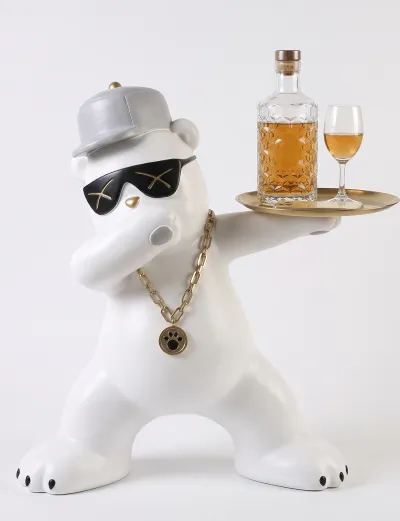
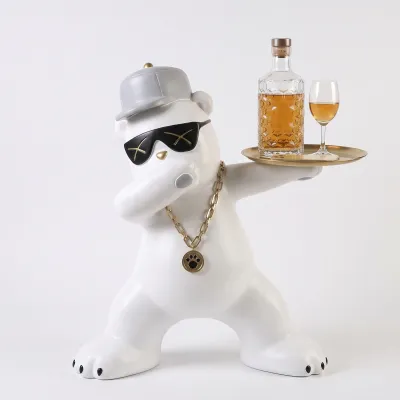
Switch product images to a 1:1 aspect ratio
Hero, material cards, discover section, collection grid and loading screens are now square. Dab Bear re-exported as the full square instead of the portrait crop.

diff --git a/index.html b/index.html
@@ -51,7 +51,7 @@ a:hover{color:#555;}
   .r-gap-sm{gap:56px !important;}
   /* hero: vertical stacked column on mobile */
   .r-hero-grid{grid-template-columns:1fr !important;}
-  .r-hero-img-wrap{height:55vh !important;}
+  .r-hero-img-wrap{height:auto !important;}
   .r-hero-copyright{position:static !important;text-align:left !important;order:-1;}
   .r-hero-content{position:static !important;}
   .r-hero-side{margin-top:24px !important;}
@@ -103,7 +103,7 @@ a:hover{color:#555;}
 
   <!-- LOADING SCREEN -->
   <div ref="{{ loadingRef }}" style="position:fixed;inset:0;z-index:100;background:#fff;color:#000;padding:16px;transform:translateY(0%);transition:transform 1s cubic-bezier(.77,0,.18,1);">
-    <img class="r-loading-img" src="{{ loadingImg }}" alt="" style="position:absolute;top:16px;left:16px;width:160px;aspect-ratio:2/2.6;object-fit:cover;">
+    <img class="r-loading-img" src="{{ loadingImg }}" alt="" style="position:absolute;top:16px;left:16px;width:160px;aspect-ratio:1/1;object-fit:cover;">
     <img src="./assets/loading-icon.svg" alt="Organised Octopus" style="position:absolute;top:50%;left:50%;transform:translate(-50%,-50%);width:180px;display:block;">
     <p class="r-loading-text" style="position:absolute;bottom:16px;right:16px;font-size:20px;font-weight:500;line-height:110%;letter-spacing:-0.02em;margin:0;max-width:380px;text-align:right;">Your home called. It wants art. We design material-driven, minimalist furniture inspired by Swiss graphic design.</p>
   </div>
@@ -126,7 +126,7 @@ a:hover{color:#555;}
     <div style="padding: 0 16px; position: relative">
       <div class="r-hero-grid" style="display: grid; grid-template-columns: 1fr 1fr; gap: 16px; position: relative; justify-content: center">
 
-        <div style="overflow:hidden;aspect-ratio: 2/2.6; height: 650px; width: 100%; border-radius: 0px;" class="r-hero-img-wrap"><img ref="{{ heroImgRef }}" class="r-hero-img" src="./assets/products/david-bust.webp" alt="{{ heroTitle }}" style="object-fit: cover; height: 100%; margin-right: 0px; width: 100%; transform:translateY(100%); transition:transform .9s cubic-bezier(.16,1,.3,1);"></div>
+        <div style="overflow:hidden;aspect-ratio: 1/1; height: auto; width: 100%; border-radius: 0px;" class="r-hero-img-wrap"><img ref="{{ heroImgRef }}" class="r-hero-img" src="./assets/products/david-bust.webp" alt="{{ heroTitle }}" style="object-fit: cover; height: 100%; margin-right: 0px; width: 100%; transform:translateY(100%); transition:transform .9s cubic-bezier(.16,1,.3,1);"></div>
         <div class="r-hero-side" style="position: relative; align-self: stretch">
           <p class="r-hero-copyright" style="position: absolute; top: 0; right: 0; font-size: 16px; font-weight: 500; margin: 0; left: 0px; text-align: right; display: none">© 2025 Organised Octopus</p>
           <div class="r-hero-content" style="position: absolute; left: 0; right: 0; bottom: 0; display: flex; flex-direction: column; align-items: flex-start; gap: 16px;">
@@ -170,19 +170,19 @@ a:hover{color:#555;}
       <div ref="{{ stageRef }}" class="r-s3-stage" style="position:relative;width:100%;height:100%;">
         <!-- left -->
         <div ref="{{ leftRef }}" style="position:absolute;top:50%;left:35%;transform:translate(0,-50%);width:30%;z-index:1;background:#fff;">
-          <img src="./assets/products/teddy-statue.webp" alt="Teddy Statue" style="aspect-ratio:2/2.6;object-fit:cover;width:100%;">
+          <img src="./assets/products/teddy-statue.webp" alt="Teddy Statue" style="aspect-ratio:1/1;object-fit:cover;width:100%;">
           <div style="display: flex; justify-content: space-between; align-items: center; padding: 12px 0"><p style="font-size:16px;font-weight:500;margin:0;">Arco Shelf Metal</p></div>
           <a ref="{{ btn0 }}" href="#" class="r-s3-btn" style="background:#000;color:#fff;width:100%;height:40px;padding:0 16px;display:flex;justify-content:space-between;align-items:center;text-decoration:none;opacity:0;transform:translateY(10px);pointer-events:none;transition:opacity .45s ease,transform .45s ease;"><span style="font-size:16px;font-weight:500;">Shop on Amazon</span><span style="font-size:16px;font-weight:500;"></span></a>
         </div>
         <!-- right -->
         <div ref="{{ rightRef }}" style="position:absolute;top:50%;left:35%;transform:translate(0,-50%);width:30%;z-index:1;background:#fff;">
-          <img src="./assets/products/head-side-table.webp" alt="Head Side Table" style="aspect-ratio:2/2.6;object-fit:cover;width:100%;">
+          <img src="./assets/products/head-side-table.webp" alt="Head Side Table" style="aspect-ratio:1/1;object-fit:cover;width:100%;">
           <div style="display:flex;justify-content:space-between;align-items:center;padding:12px 0;"><p style="font-size:16px;font-weight:500;margin:0;">Arco Stool Metal</p></div>
           <a ref="{{ btn1 }}" href="#" class="r-s3-btn" style="background:#000;color:#fff;width:100%;height:40px;padding:0 16px;display:flex;justify-content:space-between;align-items:center;text-decoration:none;opacity:0;transform:translateY(10px);pointer-events:none;transition:opacity .45s ease,transform .45s ease;"><span style="font-size:16px;font-weight:500;">Shop on Amazon</span><span style="font-size:16px;font-weight:500;"></span></a>
         </div>
         <!-- center -->
         <div ref="{{ centerRef }}" style="position:absolute;top:50%;left:35%;transform:translate(0,-50%);width:30%;z-index:2;background:#fff;">
-          <img src="./assets/products/dab-bear-side-table.webp" alt="Dab Bear Side Table" style="aspect-ratio:2/2.6;object-fit:cover;width:100%;">
+          <img src="./assets/products/dab-bear-side-table.webp" alt="Dab Bear Side Table" style="aspect-ratio:1/1;object-fit:cover;width:100%;">
           <div style="display:flex;justify-content:space-between;align-items:center;padding:12px 0;"><p style="font-size:16px;font-weight:500;margin:0;">Arco Sofa Metal</p></div>
           <a ref="{{ btn2 }}" href="#" class="r-s3-btn" style="background:#000;color:#fff;width:100%;height:40px;padding:0 16px;display:flex;justify-content:space-between;align-items:center;text-decoration:none;opacity:0;transform:translateY(10px);pointer-events:none;transition:opacity .45s ease,transform .45s ease;"><span style="font-size:16px;font-weight:500;">Shop on Amazon</span><span style="font-size:16px;font-weight:500;"></span></a>
         </div>
@@ -205,9 +205,9 @@ a:hover{color:#555;}
         </a>
       </div>
       <div class="r-2col" style="grid-column:5 / 13;display:grid;grid-template-columns:1fr 1fr;gap:16px;grid-template-areas:'main side' 'name side' 'shop side';">
-        <img ref="{{ collImgRef }}" src="./assets/products/panda-side-table.webp" alt="{{ collName }}" style="grid-area:main;aspect-ratio:2/2.6;object-fit:cover;width:100%;">
+        <img ref="{{ collImgRef }}" src="./assets/products/panda-side-table.webp" alt="{{ collName }}" style="grid-area:main;aspect-ratio:1/1;object-fit:cover;width:100%;">
         <div style="grid-area:side;display:flex;flex-direction:column;">
-          <img ref="{{ coll2ImgRef }}" src="./assets/products/fireplace-side-table.webp" alt="" style="aspect-ratio:2/2.6;object-fit:cover;width:100%;">
+          <img ref="{{ coll2ImgRef }}" src="./assets/products/fireplace-side-table.webp" alt="" style="aspect-ratio:1/1;object-fit:cover;width:100%;">
           <div class="r-coll-desc" style="display:flex;justify-content:space-between;align-items:center;padding:12px 0;"><p style="font-size:16px;font-weight:500;margin:0;max-width:280px;">{{ collDesc }}</p></div>
         </div>
         <div style="grid-area:name;display:flex;justify-content:space-between;align-items:center;padding:12px 0;"><p style="font-size:16px;font-weight:500;margin:0;">{{ collName }}</p></div>

diff --git a/collection.html b/collection.html
@@ -28,6 +28,8 @@
   .r-hov-ph { visibility: hidden; }
   .r-hov-a, .r-hov-b { position: absolute; top: 0; left: 0; width: 100%; transition: transform .45s cubic-bezier(.65,0,.35,1); }
   .r-hov-b { top: 100%; }
+  /* product tiles are square; ProductThumb hardcodes 2:2.6 inline */
+  #product-grid img { aspect-ratio: 1 / 1 !important; }
   .r-hovable:hover .r-hov-a, .r-hovable:hover .r-hov-b { transform: translateY(-100%); }
   .sort-toggle {
     display: flex; align-items: center; gap: 8px; background: none; border: none;
@@ -196,7 +198,7 @@ function LoadingScreen({ visible }) {
       transform: visible ? 'translateY(0%)' : 'translateY(-100%)',
       transition: 'transform 1s cubic-bezier(.77,0,.18,1)',
     }}>
-      <img className="r-loading-img" src={loadingImg} alt="" style={{ position: 'absolute', top: 16, left: 16, width: 160, aspectRatio: '2/2.6', objectFit: 'cover' }} />
+      <img className="r-loading-img" src={loadingImg} alt="" style={{ position: 'absolute', top: 16, left: 16, width: 160, aspectRatio: '1/1', objectFit: 'cover' }} />
       <img src="assets/loading-icon.svg" alt="Organised Octopus" style={{ position: 'absolute', top: '50%', left: '50%', transform: 'translate(-50%,-50%)', width: 180, display: 'block' }} />
       <p style={{ position: 'absolute', bottom: 16, right: 16, fontSize: 'var(--text-loading)', fontWeight: 500, lineHeight: 'var(--text-loading-line)', letterSpacing: 'var(--tracking-normal)', margin: 0, maxWidth: 380, textAlign: 'right' }}>
         Your home called. It wants art. We design material-driven, minimalist furniture inspired by Swiss graphic design.

diff --git a/about.html b/about.html
@@ -67,7 +67,7 @@ a:hover{color:#555;}
 
   <!-- LOADING SCREEN -->
   <div ref="{{ loadingRef }}" style="position:fixed;inset:0;z-index:100;background:#fff;color:#000;padding:16px;transform:translateY(0%);transition:transform 1s cubic-bezier(.77,0,.18,1);">
-    <img class="r-loading-img" src="{{ loadingImg }}" alt="" style="position:absolute;top:16px;left:16px;width:160px;aspect-ratio:2/2.6;object-fit:cover;">
+    <img class="r-loading-img" src="{{ loadingImg }}" alt="" style="position:absolute;top:16px;left:16px;width:160px;aspect-ratio:1/1;object-fit:cover;">
     <img src="./assets/loading-icon.svg" alt="Organised Octopus" style="position:absolute;top:50%;left:50%;transform:translate(-50%,-50%);width:180px;display:block;">
     <p class="r-loading-text" style="position:absolute;bottom:16px;right:16px;font-size:20px;font-weight:500;line-height:110%;letter-spacing:-0.02em;margin:0;max-width:380px;text-align:right;">Your home called. It wants art. We design material-driven, minimalist furniture inspired by Swiss graphic design.</p>
   </div>
